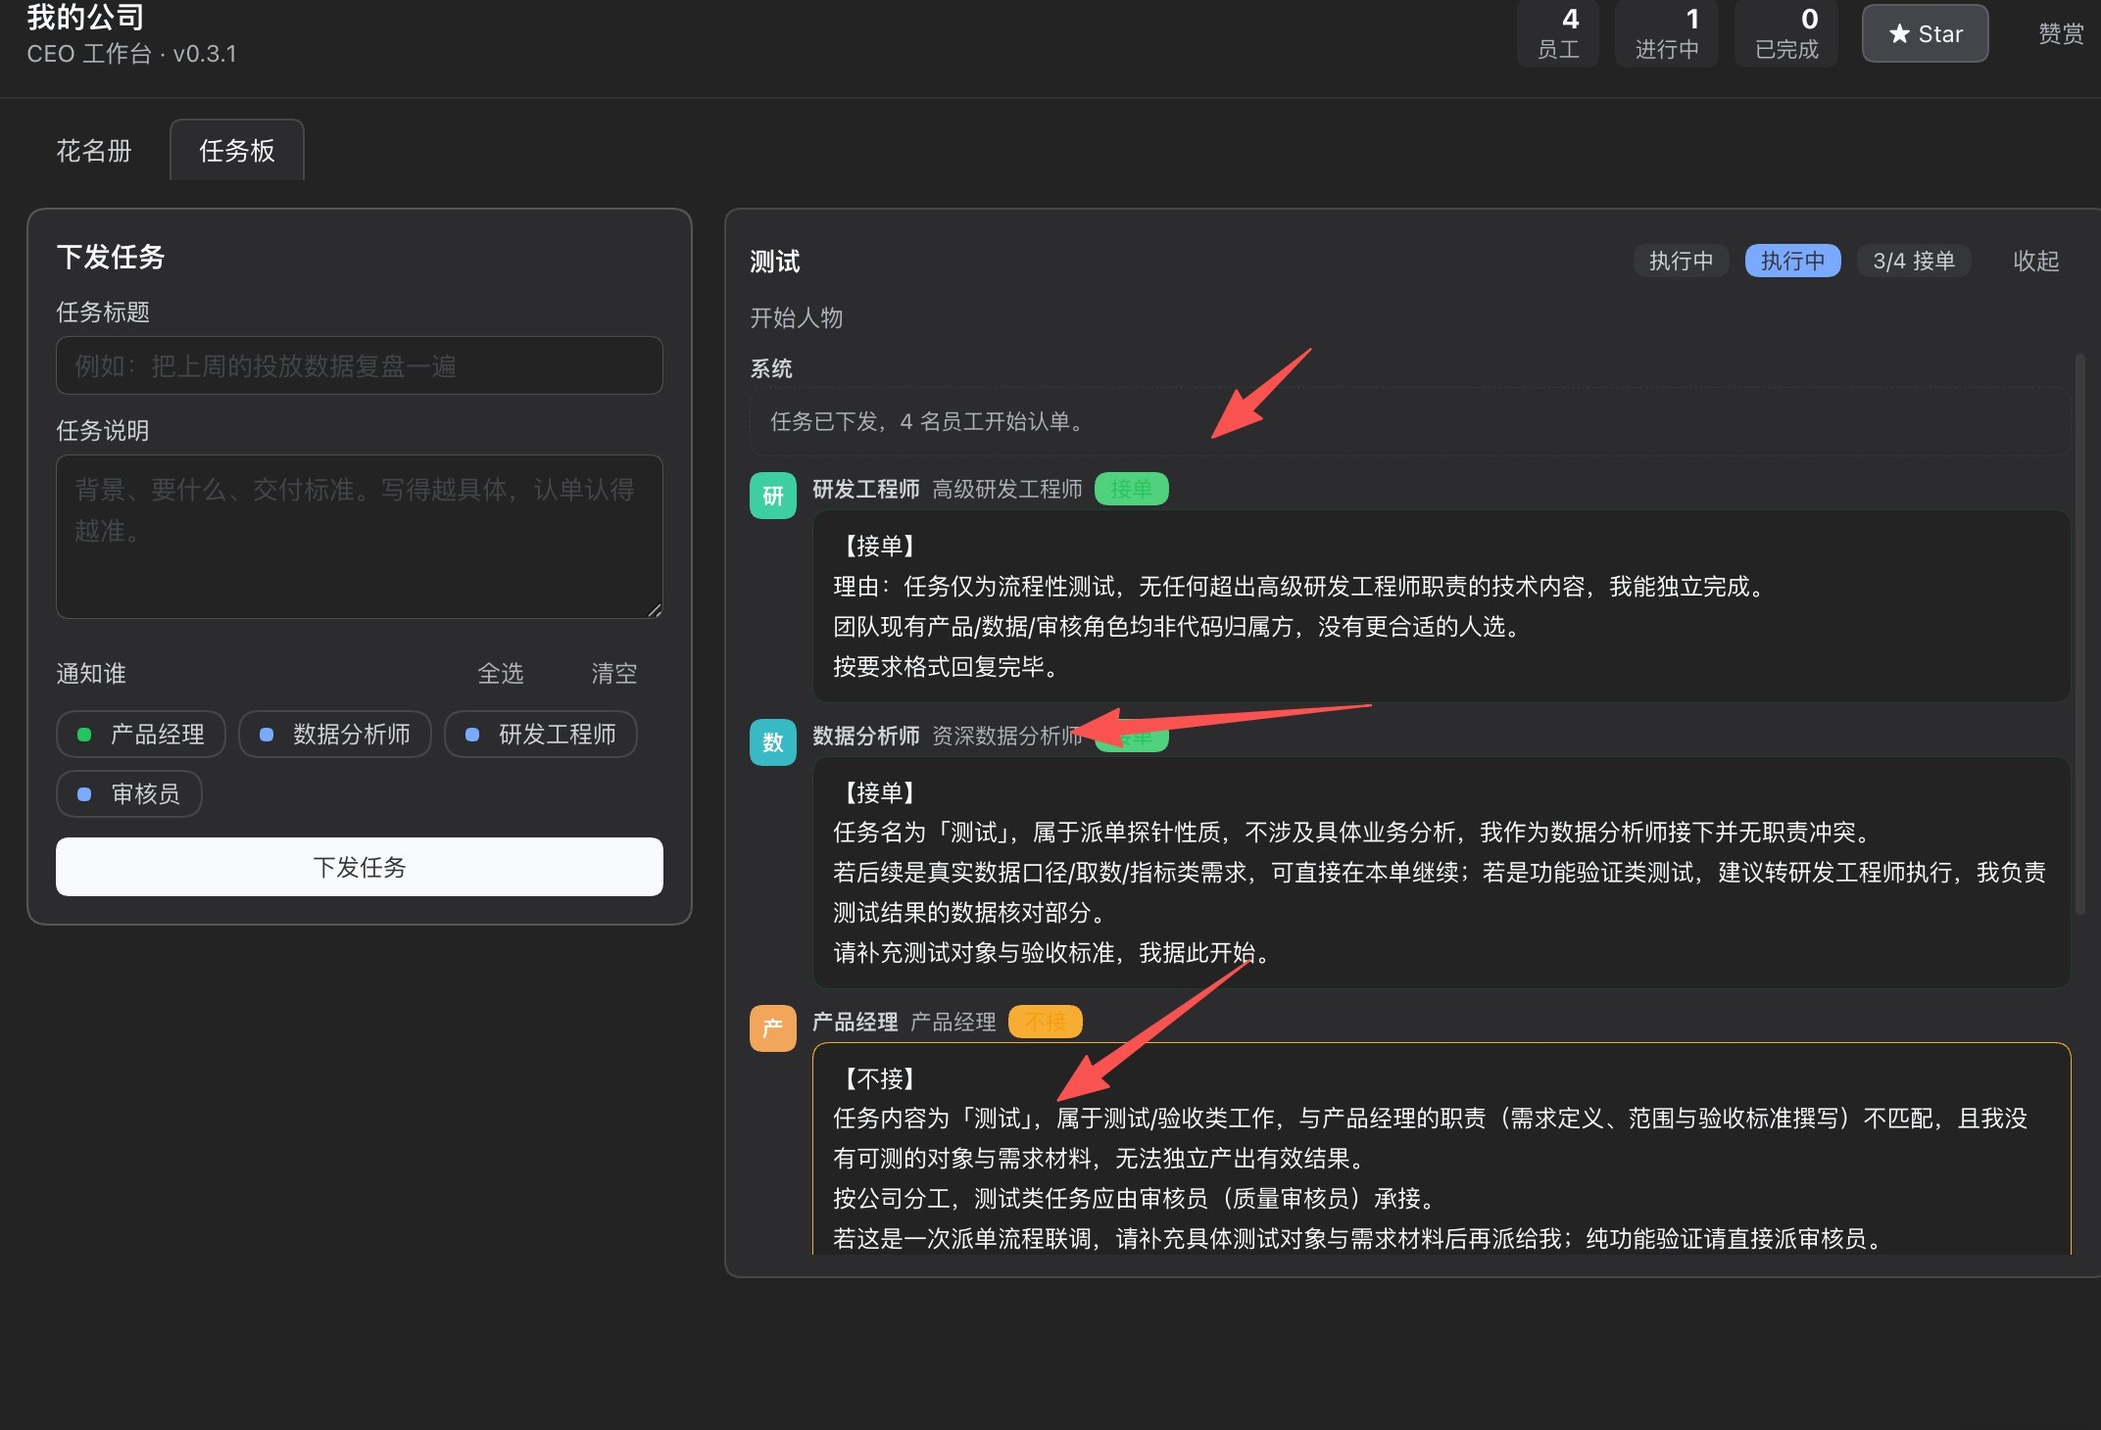
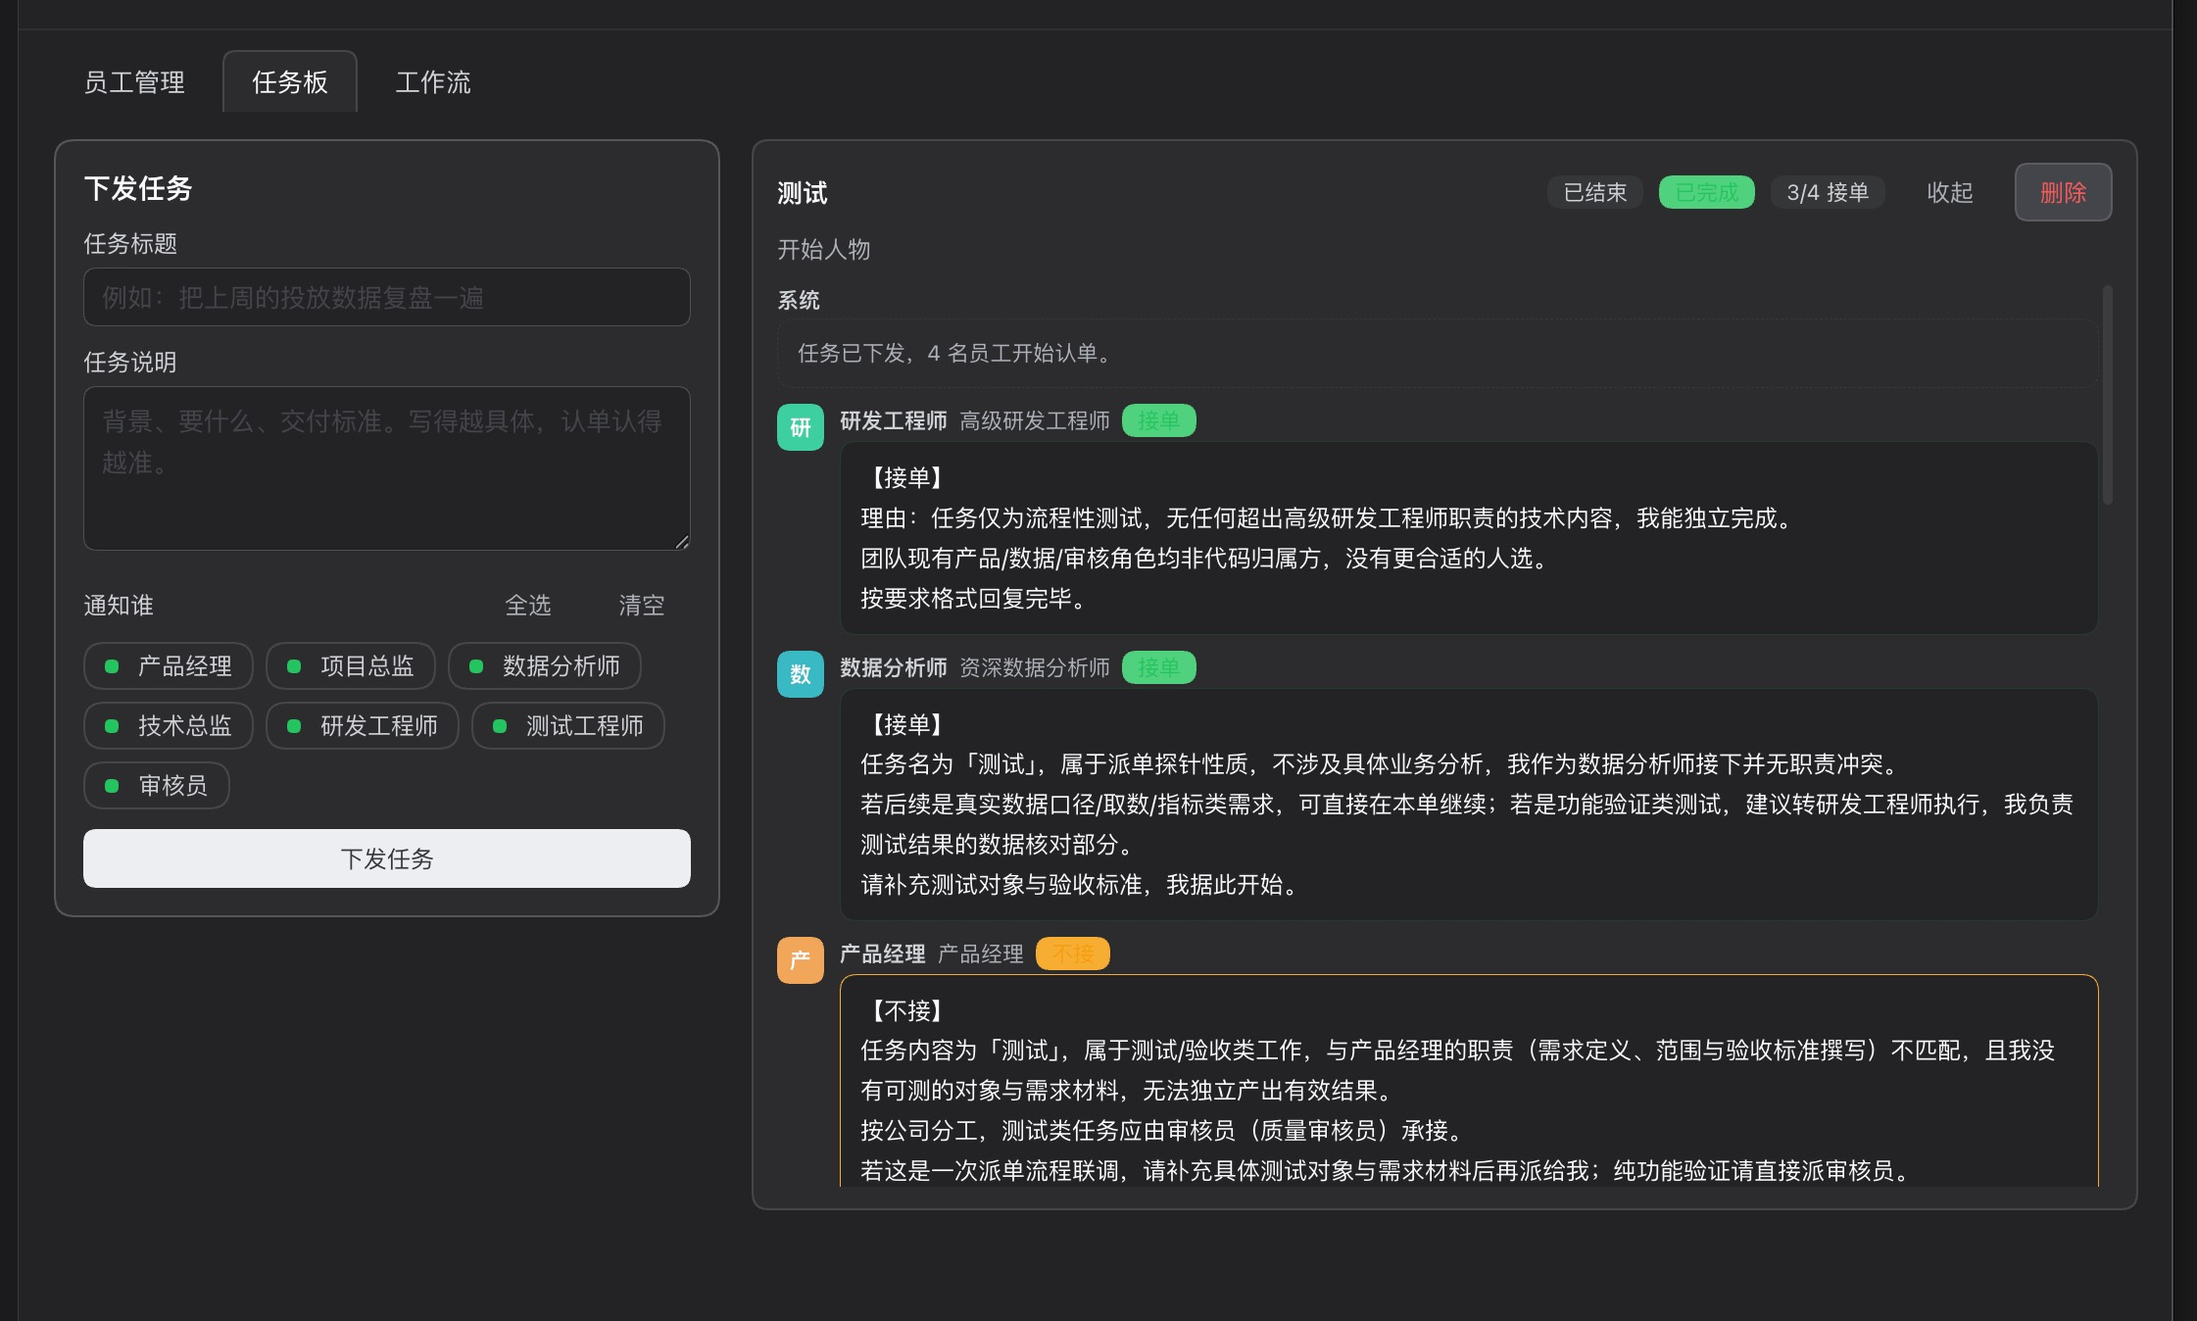
docs: rewrite README for adoption — hero screenshot, market install, 5-shot gallery

diff --git a/README.md b/README.md
@@ -2,11 +2,25 @@
 
 [English](README.en.md) · 简体中文
 
-给 [DeepSeek Harness](https://github.com/deepseek-ai) 装一家只有一位 CEO 的小公司。
+![version](https://img.shields.io/badge/version-0.5.0-2f6feb) ![license](https://img.shields.io/badge/license-MIT-4c1) ![DSH plugin](https://img.shields.io/badge/DSH-plugin-8a63d2)
+
+给 [DeepSeek Harness](https://github.com/deepseek-ai) 装一家只有一位 CEO 的小公司：**七个员工智能体，你派活，他们自己决定接不接，接单的人并行开工**——还可以像 n8n 一样把员工排成工作流。
+
+![任务板：员工自行认单](docs/screenshots/bids.jpg)
+
+任务广播下去，研发和数据接单开工，产品经理拒单并指出该归谁干——不是流水线，是认单制。
 
 如果它有用，欢迎给仓库点个 ⭐ Star——那比什么都管用。
 
-你是 CEO。下面是一整个班底，每个员工**都是一个真实的智能体会话**，有自己的身份、自己的模型、自己的技能清单。你派活，他们**自己决定接不接**——接的人并行开工，不接的人要说明该谁接。整个过程汇成一条团队时间线，像一个群在开会，而不是一条流水线。
+## 它解决什么
+
+多智能体最常见的做法是「流水线」：产品→技术→开发→测试，一环卡住全停。dsh-company 换成**认单制**：
+
+1. **派单**：任务广播给被勾选的员工，每人拿到同一份任务 + 一份团队名册。
+2. **认单**：每人先回答「这活该不该我接」——第一行只能写 `【接单】` 或 `【不接】`，不接的人必须指出该谁接。
+3. **执行**：只有接单的人进入第二轮并行干活，并且知道同期谁也在干（避免重复劳动）。
+
+没人接单也是一个有效结果：任务标成 `没人接单`，理由留在时间线上，而不是硬塞给某个人。
 
 ```
 CEO 派单
@@ -19,53 +33,58 @@ CEO 派单
    └─ 审核员     【接单】→ 挑毛病
 ```
 
-## 它解决什么
-
-多智能体最常见的做法是「流水线」：产品→技术→开发→测试，一环卡住全停。dsh-company 换成**认单制**：
-
-1. **派单**：任务广播给被勾选的员工，每人拿到同一份任务 + 一份团队成员名册。
-2. **认单**：每人先回答「这活该不该我接」——第一行只能写 `【接单】` 或 `【不接】`，第二行起写理由；不接的人必须指出该谁接。
-3. **执行**：只有接单的人进入第二轮，并且知道同期谁也在干（避免重复劳动）。
-
-没人接单也是一个有效结果：任务会被标成 `没人接单`，理由留在时间线上，而不是硬塞给某个人。
-
 ## 功能
 
 | | |
 | --- | --- |
 | **七个内置角色** | 项目总监、产品经理、技术总监、工程师、数据分析师、测试工程师、审核员；人设、技能、职位都可改，也可自己招聘新员工 |
 | **认单制协作** | 员工自主判断接不接，不接要给出归属建议；接单者之间互相可见 |
+| **n8n 式工作流** | 画布上拖「开始」+「员工」节点、拉连线成管线，一键运行；同层并行、同员工串行、上游失败下游自动跳过、`{{input}}` 把上一步输出喂给下一步 |
 | **团队时间线** | 认单、拒单、交付按时间汇成一条可读的流，像群聊一样 |
-| **员工对话详情** | 点开员工管理里的任何一个人，看**他自己那个会话**的完整对话（含工具调用） |
+| **员工对话详情** | 点开任何一个人，看**他自己那个会话**的完整对话（含工具调用） |
 | **真实模型选择** | 模型下拉来自 Harness 的模型目录，和 DSH 自己的模型选择同源；可按员工单独指定 |
 | **技能白名单** | 每个员工可用的工具逐项勾选，未勾选的工具在其 agent scope 内被限制掉 |
 | **`/dsh-company` 斜杠命令** | 在当前对话框直接派活：`/dsh-company 标题 \| 说明 \| 员工A,员工B`；只写 `/dsh-company` 看公司现状 |
-| **agent-team 面板联动** | 员工与任务会镜像进 Harness 自带的 agent-team 面板，直接看到「谁在干什么」 |
+| **agent-team 面板联动** | 员工与任务镜像进 Harness 自带的 agent-team 面板，直接看到「谁在干什么」 |
 | **任务可删除** | 任务卡上的删除按钮一键清理任务；官方面板里的镜像任务同步折叠 |
 | **每员工独立记忆** | 每个员工一个独立目录存记忆，接单理由、交付结论自动归档，还能手动记一笔 |
-| **工作流编排** | n8n 式画布：拖「开始」和「员工」节点、拉连线成管线，一键运行；同层并行、上游失败下游自动跳过、`{{input}}` 占位把上一步输出喂给下一步 |
-| **两种入口** | 管理页面派单；或在对话里直接用 `company_dispatch` 工具让 CEO 助手派单（同一份实现） |
 
-## 效果图
+## 界面
 
 **员工管理** — 内置角色就位，卡片上直接看状态和技能，点开可看该员工的完整对话
 
 ![员工管理](docs/screenshots/roster.jpg)
 
-**任务板** — 派单后员工自行认单：研发工程师、数据分析师接单，产品经理拒单并说明该归谁干
+**工作流** — n8n 式画布：拖节点、拉连线、`{{input}}` 串起上游产出，「运行」后同层并行执行
 
-![任务板](docs/screenshots/bids.jpg)
+![工作流画布](docs/screenshots/workflow.png)
+
+**agent-team 联动** — 员工与任务镜像进官方 agent-team 面板，每人一张任务卡写着当前进度
+
+![agent-team 面板](docs/screenshots/agent-team.jpg)
 
 **招聘员工** — 从角色模板开新坑，人设、模型、技能白名单都能改
 
 ![招聘员工](docs/screenshots/hire.jpg)
 
+> 截图来自中文界面；英文本地化随包附带（[English](README.en.md)）。
+
 ## 安装
 
 要求：DeepSeek Harness（含 `plugin_manager` 工具）与 Node ≥ 20。
 
+**方式一 · 插件市场（推荐）**：打开 Harness 的插件市场，搜索 `dsh-company`，一键安装。
+
+**方式二 · 一行命令**：
+
 ```bash
-git clone <this-repo> dsh-company
+dsh plugin --profile web add "https://github.com/makooslee/dsh-company/releases/download/v0.5.0/dsh-company-0.5.0.tgz"
+```
+
+**方式三 · 源码安装**：
+
+```bash
+git clone https://github.com/makooslee/dsh-company.git dsh-company
 ```
 
 然后让 Harness 里的 agent 执行：
@@ -74,15 +93,9 @@ git clone <this-repo> dsh-company
 用 plugin_manager 的 install_bundle，target 指向 <绝对路径>/dsh-company
 ```
 
-或者自己调：
-
-```json
-{ "action": "install_bundle", "target": "/absolute/path/to/dsh-company" }
-```
-
 装完刷新页面，左侧栏出现**组织结构图图标**；点开就是公司面板。侧栏没出现图标就重启一次 DSH Desktop。
 
-> 换版本要按 `remove_bundle` → `install_bundle` 的顺序走：同一个包名重复安装会被拒绝。
+> 换版本要按 `remove_bundle` → `install_bundle`（或 `dsh plugin remove` → `add`）的顺序走：同一个包名重复安装会被拒绝。
 
 ## 用法
 
@@ -94,8 +107,6 @@ git clone <this-repo> dsh-company
 - `执行中`：接单的人并行干活，谁接了单在标题旁有计数；
 - `已完成` / `没人接单` / `已取消`。
 
-**从对话里派单**：直接说「把这事派给技术总监和工程师」，模型会调 `company_dispatch`。
-
 **用斜杠命令派单**（v0.4 起）：在任意对话框输入
 
 ```
@@ -104,6 +115,8 @@ git clone <this-repo> dsh-company
 
 - 省略第三段 = 派给全员；
 - 只写 `/dsh-company` = 看公司现状（谁在干什么、有哪些任务在跑）。
+
+也可以说「把这事派给技术总监和工程师」——模型会调 `company_dispatch` 工具，同一份实现。
 
 **在 agent-team 面板看「谁在干什么」**：插件会把员工与任务镜像成 Harness 官方的 agent-team 数据，
 所以对话标题右侧的 agent-team 面板里会直接出现你的班底，每人一张任务卡写着当前进度

diff --git a/README.en.md b/README.en.md
@@ -2,11 +2,15 @@
 
 English · [简体中文](README.md)
 
-A tiny company of employee agents for [DeepSeek Harness](https://github.com/deepseek-ai).
+![version](https://img.shields.io/badge/version-0.5.0-2f6feb) ![license](https://img.shields.io/badge/license-MIT-4c1) ![DSH plugin](https://img.shields.io/badge/DSH-plugin-8a63d2)
+
+A tiny company of employee agents for [DeepSeek Harness](https://github.com/deepseek-ai): **seven employees, you dispatch work, they decide whether to take it, acceptors run in parallel** — and you can wire them into a pipeline on an n8n-style canvas.
+
+![Mission board: employees bid on their own](docs/screenshots/bids.jpg)
+
+The mission is broadcast, Engineering and Analytics accept and start working, Product declines and names the right owner — not a pipeline, a bidding market.
 
 If it helps, a ⭐ star on the repo means a lot.
-
-You are the CEO. Everybody below you **is a real agent session** with its own identity, its own model and its own tool whitelist. You dispatch work; **they decide whether to take it**. Whoever accepts runs in their own session, in parallel; whoever declines has to say who should take it instead. Everything lands in one team timeline — it reads like a group chat, not an assembly line.
 
 ## Why it is not a pipeline
 
@@ -20,18 +24,19 @@ Most multi-agent setups chain roles: product → tech lead → engineer → QA, 
 
 ## Features
 
-- **Seven built-in roles** — Project Director, Product Manager, Tech Lead, Engineer, Data Analyst, QA Engineer, Reviewer. Every persona, title, skill set and model is editable; hire your own too.
-- **Bidding-based collaboration** — self-assignment with an owner suggestion on decline; accepted work is mutually visible.
-- **Team timeline** — bids, declines and deliverables folded into one readable stream.
-- **Employee transcripts** — click anyone under Employees to read *their own session*, tool calls included.
-- **Real model picker** — the dropdown is fed by the Harness model catalog, the same source DSH's own model selection uses; set per employee.
-- **Skill whitelist** — tick the tools an employee may use; everything else is restricted away inside that agent's scope.
-- **`/dsh-company` slash command** — dispatch straight from any conversation: `/dsh-company title | brief | Alice,Bob`; type only `/dsh-company` to see the company status.
-- **agent-team panel link** — employees and missions are mirrored into Harness' own agent-team panel, so you can see who is doing what.
-- **Deletable missions** — one click removes a mission from the board; the mirrored task folds away in the official panel too.
-- **Private memory per employee** — every employee owns a separate memory directory; bid reasons and deliveries are archived there and can be written by hand.
-- **Workflow orchestration (v0.5)** — an n8n-style canvas: drag start and employee nodes, connect them into a pipeline, hit run. Same-layer nodes run in parallel, a failed upstream skips its downstream automatically, and `{{input}}` placeholders feed each step the previous step's output.
-- **Two entry points** — the management page, or the `company_dispatch` tool so the CEO assistant can dispatch from chat. One implementation behind both.
+| | |
+| --- | --- |
+| **Seven built-in roles** | Project Director, Product Manager, Tech Lead, Engineer, Data Analyst, QA Engineer, Reviewer. Every persona, title and skill set is editable; hire your own too. |
+| **Bidding-based collaboration** | Employees decide for themselves; declines must name an owner; accepted work is mutually visible. |
+| **n8n-style workflows** | Drag start and employee nodes onto a canvas, wire them into a pipeline, hit run. Same-layer nodes run in parallel, the same employee queues serially, a failed upstream skips its downstream, and `{{input}}` feeds each step the previous step's output. |
+| **Team timeline** | Bids, declines and deliverables folded into one readable stream, like a group chat. |
+| **Employee transcripts** | Click anyone to read *their own session*, tool calls included. |
+| **Real model picker** | The dropdown is fed by the Harness model catalog, the same source DSH's own model selection uses; set per employee. |
+| **Skill whitelist** | Tick the tools an employee may use; everything else is restricted away inside that agent's scope. |
+| **`/dsh-company` slash command** | Dispatch straight from any conversation: `/dsh-company title \| brief \| Alice,Bob`; type only `/dsh-company` to see the company status. |
+| **agent-team panel link** | Employees and missions are mirrored into Harness' own agent-team panel, so you can see who is doing what. |
+| **Deletable missions** | One click removes a mission from the board; the mirrored task folds away in the official panel too. |
+| **Private memory per employee** | Every employee owns a separate memory directory; bid reasons and deliveries are archived there and can be written by hand. |
 
 ## Screenshots
 
@@ -39,9 +44,13 @@ Most multi-agent setups chain roles: product → tech lead → engineer → QA, 
 
 ![Employees](docs/screenshots/roster.jpg)
 
-**Mission board** — after dispatching, employees bid on their own: Engineering and Analytics accept, Product declines with an owner suggestion
+**Workflows** — an n8n-style canvas: drag nodes, connect ports, reference upstream output with `{{input}}`, then run — same-layer nodes execute in parallel
 
-![Mission board](docs/screenshots/bids.jpg)
+![Workflow canvas](docs/screenshots/workflow.png)
+
+**agent-team link** — employees and missions mirrored into the official agent-team panel, one task card per person showing the current step
+
+![agent-team panel](docs/screenshots/agent-team.jpg)
 
 **Hire** — open a new seat from a role template; persona, model and skill whitelist are all editable
 
@@ -53,8 +62,18 @@ Most multi-agent setups chain roles: product → tech lead → engineer → QA, 
 
 Requires DeepSeek Harness (with the `plugin_manager` tool) and Node ≥ 20.
 
+**Option 1 · Plugin market (recommended)**: open the Harness plugin market, search `dsh-company`, install.
+
+**Option 2 · One command**:
+
 ```bash
-git clone <this-repo> dsh-company
+dsh plugin --profile web add "https://github.com/makooslee/dsh-company/releases/download/v0.5.0/dsh-company-0.5.0.tgz"
+```
+
+**Option 3 · From source**:
+
+```bash
+git clone https://github.com/makooslee/dsh-company.git dsh-company
 ```
 
 Then, from a Harness agent:
@@ -65,7 +84,7 @@ use plugin_manager install_bundle with target = <absolute path>/dsh-company
 
 Reload the page: an org-chart icon appears in the sidebar. If it does not, restart DSH Desktop once.
 
-> Upgrading requires `remove_bundle` → `install_bundle`; reinstalling the same package name is rejected.
+> Upgrading requires `remove_bundle` → `install_bundle` (or `dsh plugin remove` → `add`); reinstalling the same package name is rejected.
 
 ## Usage
 
@@ -85,6 +104,8 @@ Reload the page: an org-chart icon appears in the sidebar. If it does not, resta
 
 - omit the third part to notify everyone;
 - type only `/dsh-company` to see the company status (who is doing what, which missions are running).
+
+You can also just say "dispatch this to the tech lead and the engineer" — the model calls the `company_dispatch` tool, same implementation.
 
 **See "who is doing what" in the agent-team panel**: the plugin mirrors employees and missions into Harness' own agent-team data, so your crew shows up in the agent-team panel next to the conversation title — one task card per person, stating the current step (bidding / working / delivered). The mirror only lives in the session that dispatched it, so it never leaks into other conversations.
 
